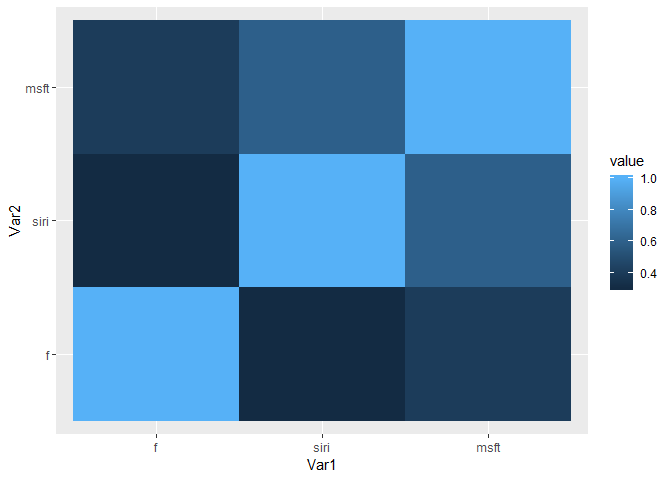
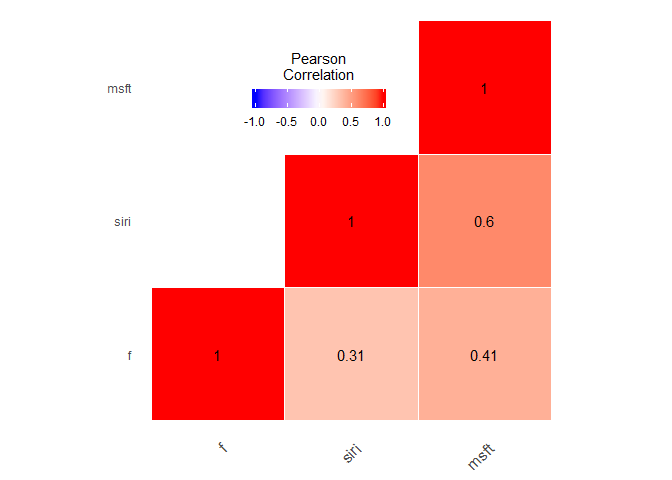
Cleaned it out to where only one heat map shows.

diff --git a/heatmap_1.html b/heatmap_1.html
@@ -229,10 +229,10 @@ melted_cormat &lt;- melt(cormat)
 
 
 # Creating the rough map
-ggplot(data = melted_cormat, aes(x=Var1, y=Var2, fill=value)) + 
-  geom_tile()</code></pre>
[1 lines of base64/hex data omitted]
-<pre class="r"><code># Get lower triangle of the correlation matrix
+# ggplot(data = melted_cormat, aes(x=Var1, y=Var2, fill=value)) + 
+#   geom_tile()
+
+# Get lower triangle of the correlation matrix
 get_lower_tri&lt;-function(cormat){
   cormat[upper.tri(cormat)] &lt;- NA
   return(cormat)
@@ -254,17 +254,18 @@ melted_cormat &lt;- melt(upper_tri, na.rm = TRUE)
 
 
 # Heatmap
-ggplot(data = melted_cormat, aes(Var2, Var1, fill = value))+
-  geom_tile(color = &quot;white&quot;)+
-  scale_fill_gradient2(low = &quot;blue&quot;, high = &quot;red&quot;, mid = &quot;white&quot;, 
-                       midpoint = 0, limit = c(-1,1), space = &quot;Lab&quot;, 
-                       name=&quot;Pearson\nCorrelation&quot;) +
-  theme_minimal()+ 
-  theme(axis.text.x = element_text(angle = 45, vjust = 1, 
-                                   size = 12, hjust = 1))+
-  coord_fixed()</code></pre>
[1 lines of base64/hex data omitted]
-<pre class="r"><code># Helper function to reorder the correlation matrix 
+# ggplot(data = melted_cormat, aes(Var2, Var1, fill = value))+
+#   geom_tile(color = &quot;white&quot;)+
+#   scale_fill_gradient2(low = &quot;blue&quot;, high = &quot;red&quot;, mid = &quot;white&quot;, 
+#                        midpoint = 0, limit = c(-1,1), space = &quot;Lab&quot;, 
+#                        name=&quot;Pearson\nCorrelation&quot;) +
+#   theme_minimal()+ 
+#   theme(axis.text.x = element_text(angle = 45, vjust = 1, 
+#                                    size = 12, hjust = 1))+
+#   coord_fixed()
+
+
+# Helper function to reorder the correlation matrix 
 reorder_cormat &lt;- function(cormat){
   # Use correlation between variables as distance
   dd &lt;- as.dist((1-cormat)/2)
@@ -290,9 +291,10 @@ ggheatmap &lt;- ggplot(melted_cormat, aes(Var2, Var1, fill = value))+
                                    size = 12, hjust = 1))+
   coord_fixed()
 # Print the heatmap
-print(ggheatmap)</code></pre>
[1 lines of base64/hex data omitted]
-<pre class="r"><code># Add correlation coefficients on the heatmap
+#print(ggheatmap)
+
+
+# Add correlation coefficients on the heatmap
 ggheatmap + 
   geom_text(aes(Var2, Var1, label = value), color = &quot;black&quot;, size = 4) +
   theme(

diff --git a/heatmap_1.md b/heatmap_1.md
@@ -157,13 +157,9 @@ melted_cormat <- melt(cormat)
 
 
 # Creating the rough map
-ggplot(data = melted_cormat, aes(x=Var1, y=Var2, fill=value)) + 
-  geom_tile()
-```
+# ggplot(data = melted_cormat, aes(x=Var1, y=Var2, fill=value)) + 
+#   geom_tile()
 
-![](heatmap_1_files/figure-html/unnamed-chunk-1-1.png)<!-- -->
-
-```r
 # Get lower triangle of the correlation matrix
 get_lower_tri<-function(cormat){
   cormat[upper.tri(cormat)] <- NA
@@ -192,20 +188,17 @@ melted_cormat <- melt(upper_tri, na.rm = TRUE)
 
 
 # Heatmap
-ggplot(data = melted_cormat, aes(Var2, Var1, fill = value))+
-  geom_tile(color = "white")+
-  scale_fill_gradient2(low = "blue", high = "red", mid = "white", 
-                       midpoint = 0, limit = c(-1,1), space = "Lab", 
-                       name="Pearson\nCorrelation") +
-  theme_minimal()+ 
-  theme(axis.text.x = element_text(angle = 45, vjust = 1, 
-                                   size = 12, hjust = 1))+
-  coord_fixed()
-```
+# ggplot(data = melted_cormat, aes(Var2, Var1, fill = value))+
+#   geom_tile(color = "white")+
+#   scale_fill_gradient2(low = "blue", high = "red", mid = "white", 
+#                        midpoint = 0, limit = c(-1,1), space = "Lab", 
+#                        name="Pearson\nCorrelation") +
+#   theme_minimal()+ 
+#   theme(axis.text.x = element_text(angle = 45, vjust = 1, 
+#                                    size = 12, hjust = 1))+
+#   coord_fixed()
 
-![](heatmap_1_files/figure-html/unnamed-chunk-1-2.png)<!-- -->
 
-```r
 # Helper function to reorder the correlation matrix 
 reorder_cormat <- function(cormat){
   # Use correlation between variables as distance
@@ -232,12 +225,9 @@ ggheatmap <- ggplot(melted_cormat, aes(Var2, Var1, fill = value))+
                                    size = 12, hjust = 1))+
   coord_fixed()
 # Print the heatmap
-print(ggheatmap)
-```
+#print(ggheatmap)
 
-![](heatmap_1_files/figure-html/unnamed-chunk-1-3.png)<!-- -->
 
-```r
 # Add correlation coefficients on the heatmap
 ggheatmap + 
   geom_text(aes(Var2, Var1, label = value), color = "black", size = 4) +
@@ -255,5 +245,5 @@ ggheatmap +
                                title.position = "top", title.hjust = 0.5))
 ```
 
-![](heatmap_1_files/figure-html/unnamed-chunk-1-4.png)<!-- -->
+![](heatmap_1_files/figure-html/unnamed-chunk-1-1.png)<!-- -->
 
